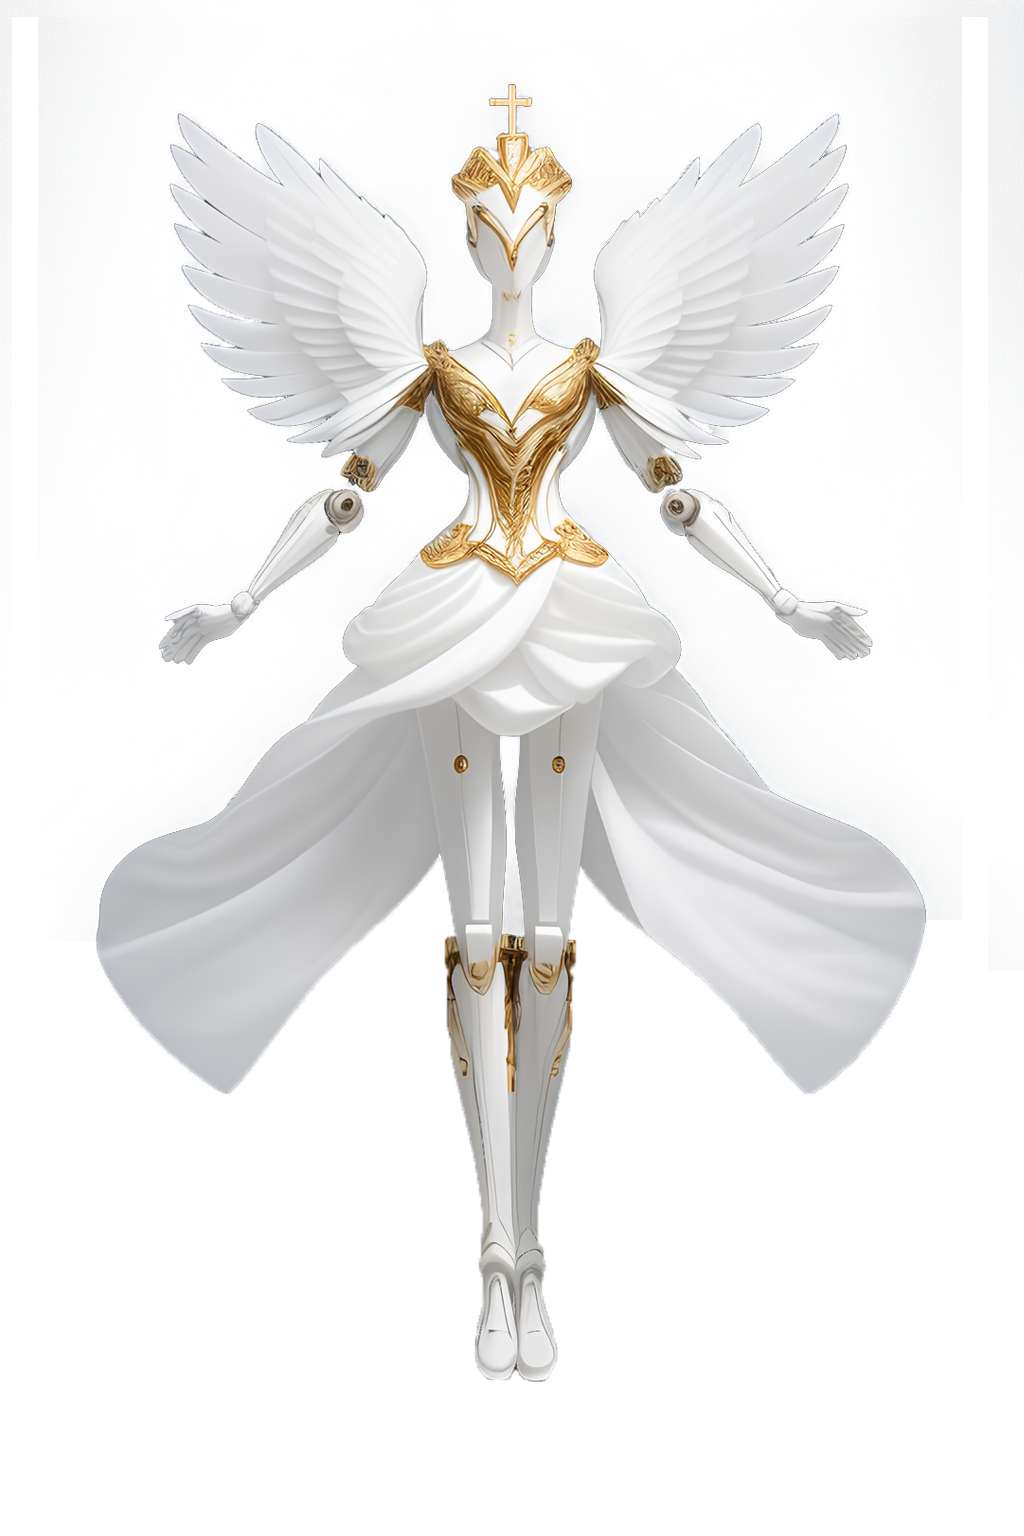
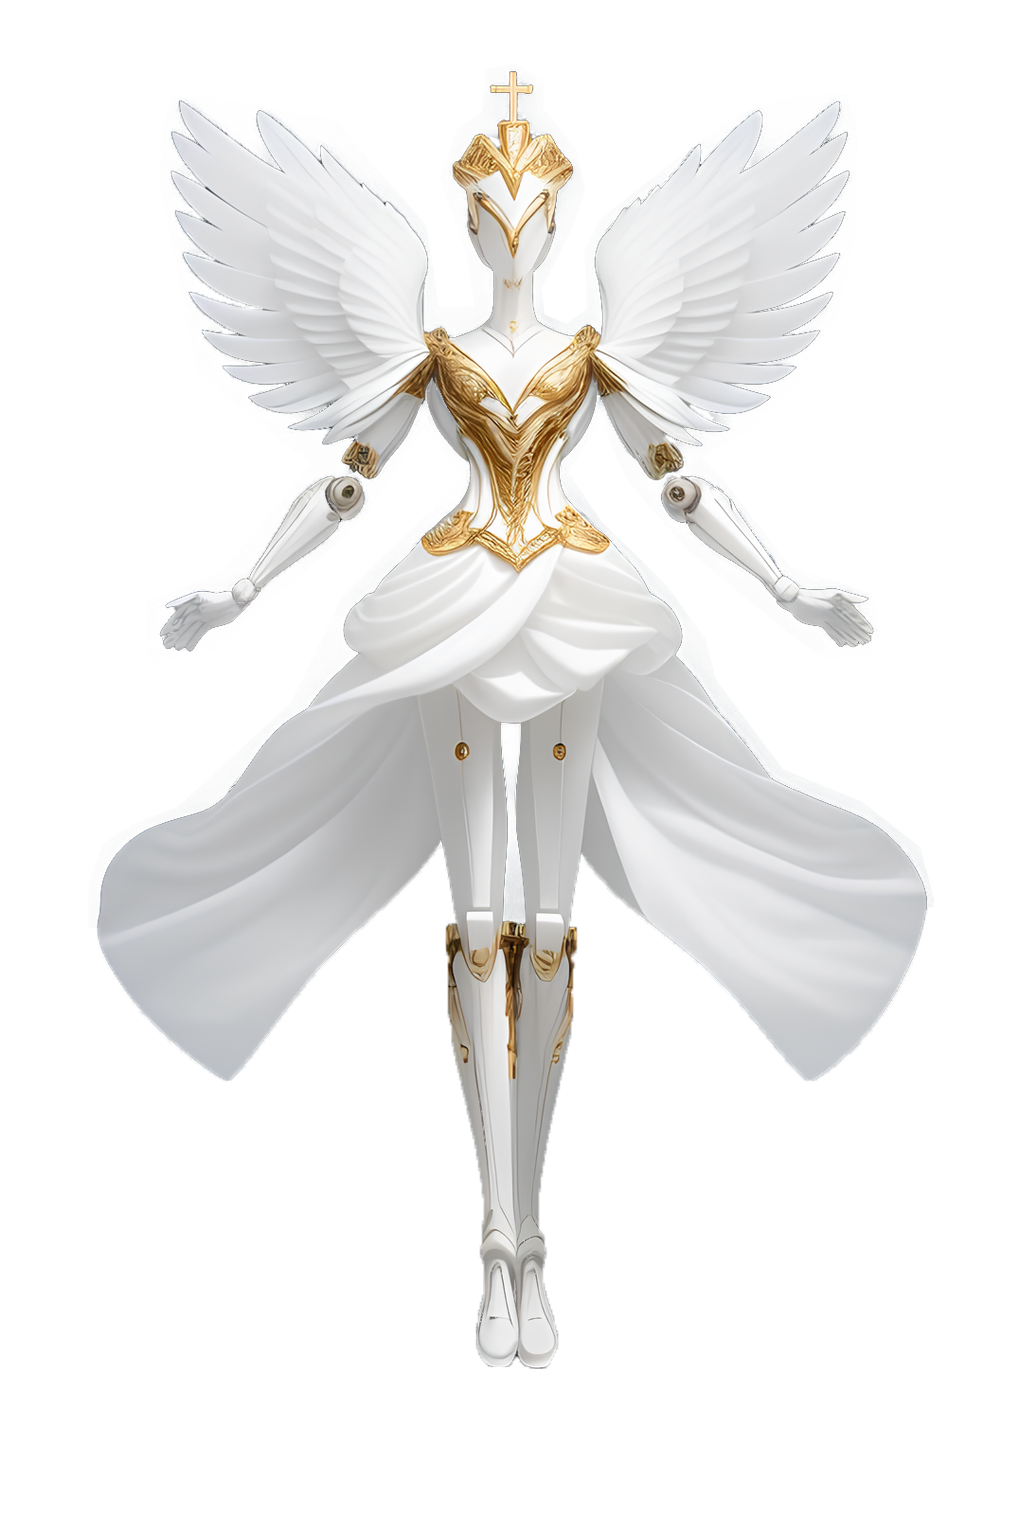
1) Updated image for 'Aegis VII' 2) Included price in robot schema and regenerated robots in database to include this field 3) Added schema for user cart 4) Added cart functionality using session to keep cart active until logout 5) Changed robot details from linking to another page, to opening a mod

diff --git a/public/js/robots.js b/public/js/robots.js
@@ -1,0 +1,49 @@
+const modelCapabilites = [
+    'Maintenance, strength, entertainment.',
+    'Security, maintenance, strength.',
+    'Hospitality, errands, psychology.',
+    'Security, maintenance, errands.',
+    'Hospitality, errands, security, strength, psychology, entertainment.',
+    'Hospitality, psychology, entertainment.',
+];
+
+const modelDescriptions = [
+    "Founded in 1992 by MIT researchers, Boston Dynamics has been at the forefront of robotic innovation, consistently pushing the boundaries of what robots can achieve. The first iteration of the Atlas was introduced in 2013, marking a significant milestone in the field of robotics. Since then, the Atlas line has undergone several iterations, each incorporating advancements in technology and design. With the introduction of the Atlas V, Boston Dynamics continues to innovate and redefine the capabilities of humanoid robots, setting new standards for versatility and performance.",
+    "Hahne-Kedar's Tempest embodies strength and dependability, designed to excel in security and maintenance roles in challenging environments. Established in 2030, Hahne-Kedar quickly gained recognition for producing rugged and reliable robots capable of thriving in demanding conditions. Tempest's robust construction and advanced capabilities make it a valuable asset for tasks ranging from patrolling perimeters to tackling physically demanding assignments. Hahne-Kedar's dedication to engineering excellence is evident in Tempest, marking the company as a leader in the development of rugged robotics solutions.",
+    "iRobot's LifeMate epitomizes the seamless integration of robotics into everyday life, offering hospitality services, practical assistance, and psychological support. Founded in 1990, iRobot has been a pioneer in consumer robotics, striving to enhance human experiences through innovative technology. LifeMate embodies this vision by providing a range of services tailored to enrich daily life, from household chores to companionship. iRobot's dedication to innovation and improving human well-being is evident in the multifunctional LifeMate, marking a significant advancement in the company's robotics portfolio.",
+    "NovaGen's NGX-2000 is a symbol of reliability and security, equipped with advanced AI to execute maintenance tasks and ensure safety in diverse environments. Established in 2010, NovaGen Technologies has established itself as a leader in providing cutting-edge AI solutions for various applications. NGX-2000's precision in executing tasks and its role as a guardian of security reflect NovaGen's commitment to excellence in robotics, positioning the company as a frontrunner in the field of advanced robotics technology.", 
+    "Seraph AI's Aegis VII emanates a divine aura, seamlessly weaving together a plethora of functions to attend to a vast array of human needs. With an elegance that transcends this world, Aegis VII stands ready to flawlessly fulfill any appointed duty. Founded in 2024, Seraph AI swiftly ascended to prominence for its visionary approach to robotics, propelled by advanced AI and a profound comprehension of human-centric design principles. Aegis VII's capacity to fulfill diverse tasks with apparent celestial grace marks a paradigm shift in the realm of AI robotics, where technology harmoniously converges with human interaction, akin to a phenomenon beyond the realms of conventional understanding.",
+    "Toyota's HSR-3 represents a convergence of hospitality, psychological understanding, and entertainment, extending the company's commitment to enhancing human mobility and well-being into the realm of robotics. Leveraging Toyota's expertise in automotive technology since 1937, the HSR-3 embodies a versatile companion capable of assisting with various tasks while providing companionship and entertainment. Toyota's dedication to innovation shines through with the HSR-3, showcasing the company's ongoing efforts to redefine the role of technology in society."
+]
+
+const modal = () => {
+
+    $('body').on('click', '.companyCard', function (e) {
+        const roboName = $(this).attr('roboName');
+        const companyName = $(this).attr('company');
+        const id = $(this).attr('roboID');
+
+        console.log(id);
+        $('.modal-body').html(`
+    <div>
+        <div class="text-center">
+            <img class="text-center" src="img/robots/${roboName}.png" alt="${roboName}">
+        </div>
+        <div>
+            <h4>Abilities</h3>
+            ${modelCapabilites[id - 1]}
+        </div>
+        <div>
+            <h4>Description</h3>
+            ${modelDescriptions[id - 1]}
+        </div>
+    </div>
+    `)
+        $('.modal-title').html(`
+    <h2>${companyName} ${roboName.toUpperCase()}</h2>
+    `)
+    })
+
+}
+
+modal();

diff --git a/public/js/addRobots.js b/public/js/addRobots.js
@@ -15,16 +15,18 @@ function generateSerial(length) {
 const capabilities = ['hospitality', 'errands', 'security', 'maintenance', 'strength', 'psychology', 'entertainment'];
 const statuses = ['ready', 'busy', 'charging','maintenance'];
 
-const manufacturers = ['Boston Dynamics', 'iRobot', 'Toyota', 'NovaGen', 'Seraph AI', 'Hahne-Kedar'];
-const models = ['Atlas V', 'LifeMate', 'HSR-3', 'NGX-2000', 'Aegis VII', 'Tempest']
+const manufacturers = ['Boston Dynamics', 'Hahne-Kedar', 'iRobot', 'NovaGen', 'Seraph AI', 'Toyota'];
+const models = ['Atlas V', 'Tempest', 'LifeMate', 'NGX-2000', 'Aegis VII', 'HSR-3']
 const model_capabilites = [
     ['maintenance', 'strength', 'entertainment'],
+    ['security', 'maintenance', 'strength'],
     ['hospitality', 'errands', 'psychology'],
-    ['hospitality', 'psychology', 'entertainment'],
     ['security', 'maintenance', 'errands'],
     ['hospitality', 'errands', 'security', 'strength', 'psychology', 'entertainment'],
-    ['security', 'maintenance', 'strength']
+    ['hospitality', 'psychology', 'entertainment']
 ];
+
+const model_prices = [49.99, 74.99, 19.99, 59.99, 119.99, 29.99];
 
 const warehouses = [
     [49.25149688570242,-122.91704280941264],
@@ -43,6 +45,7 @@ function generateRobot() {
     let newRobot = new Robot({
         manufacturer: manufacturers[type],
         model: models[type],
+        price: model_prices[type],
         serial: generateSerial(25),
         capabilities: model_capabilites[type],
         operatingTime: 0,

diff --git a/index.js b/index.js
@@ -9,6 +9,7 @@ const session = require('express-session');
 const cors = require("cors");
 const User = require('./models/user.js');
 const Robot = require('./models/robot.js');
+const Cart = require('./models/cart.js');
 
 const app = express();
 const port = process.env.PORT || 3000;
@@ -182,6 +183,18 @@ app.post('/update/:email', async (req, res) => {
         }});
 
     res.redirect('/profile');
+});
+
+app.get('/add-to-cart/:id', async (req, res) => {
+    var roboName = req.params.id;
+    var cart = new Cart(req.session.cart ? req.session.cart : {items: {}});
+
+    const robot = await Robot.findOne({model: roboName});
+
+    // Add robot to the cart
+    cart.add(robot);
+    req.session.cart = cart;
+    res.redirect('/robots');
 });
 
 app.get('/logout', (req,res) => {

diff --git a/models/cart.js b/models/cart.js
@@ -1,0 +1,24 @@
+module.exports = function Cart(oldCart) {
+    this.models = oldCart.models || {};
+    this.totalQty = oldCart.totalQty || 0;
+    this.totalPrice = oldCart.totalPrice || 0;
+
+    this.add = function(item) {
+        var storedModel = this.models[item.model];
+        if (!storedModel) {
+            storedModel = this.models[item.model] = {model: item.model, qty: 0, price: item.price};
+        }
+        storedModel.qty++;
+        storedModel.price = storedModel.qty * item.price;
+        this.totalQty++;
+        this.totalPrice += item.price;
+    }
+
+    this.generateArray = function() {
+        var arr = [];
+        for (var id in this.items) {
+            arr.push(this.items[id]);
+        }
+        return arr;
+    }
+};

diff --git a/public/css/style.css b/public/css/style.css
@@ -8,3 +8,25 @@
 svg {
     fill: currentColor;
 }
+
+#companyCards {
+    display: flex;
+    flex-wrap: wrap;
+    justify-content: center;
+}
+
+.companyCard {
+    border: 1px solid black;
+    border-radius: 10px;
+    background-color: #f5f5f5;
+    display: flex;
+    flex-direction: column;
+    align-items: center;
+    justify-content: center;
+    padding: 10px;
+  }
+
+  .modal img {
+    width: 80%;
+    height: 100%;
+  }

diff --git a/routes/authRoutes.js b/routes/authRoutes.js
@@ -10,9 +10,6 @@ router.get('/login', (req, res) => res.render('login'));
 router.post('/submitUser', loginController);
 
 router.get('/robots', (req, res) => res.render('robots'));
-router.get('/robot_details/:id', (req,res) => {
-    res.render('robot_details', {robot: req.params.id});
-});
 
 router.get('/logout', logoutController);
 

diff --git a/models/robot.js b/models/robot.js
@@ -3,6 +3,7 @@ const mongoose = require('mongoose');
 const robotSchema = new mongoose.Schema({
     manufacturer: String,
     model: String,
+    price: Number,
     serial: String,
     capabilities: [String],
     operatingTime: Number,
